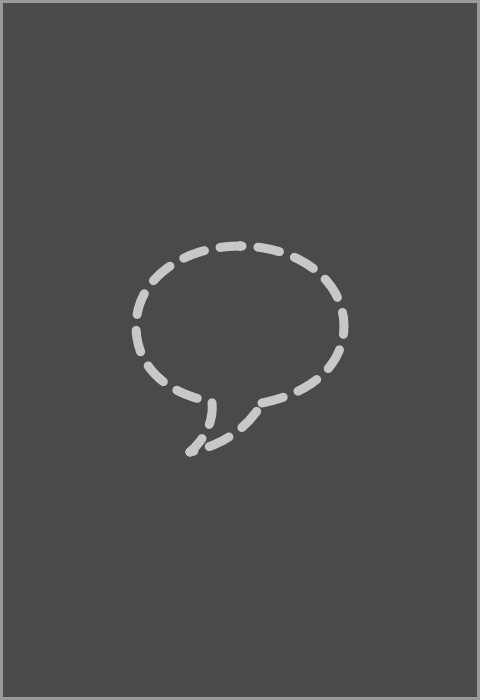
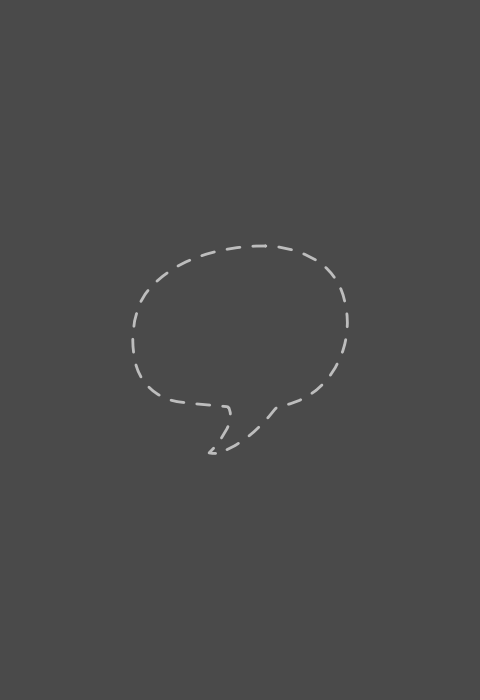
Polish missing-comic covers and the metadata editor

Changed region(s): [[0.0, 0.0, 1.0, 1.0], [0.25, 0.33, 0.75, 0.66]]

diff --git a/YACReaderLibrary/qml/FlowView.qml b/YACReaderLibrary/qml/FlowView.qml
@@ -155,7 +155,11 @@ Rectangle {
                 Image {
                     id: coverElement
                     anchors.fill: parent
-                    source: cover_path
+                    source: cover_path.toString() === "qrc:/images/unavailableCover.png"
+                            ? "qrc:/images/unavailableCover.svg" : cover_path
+                    // Render the SVG at the crop size; Image accounts for the display's pixel density.
+                    sourceSize: source.toString() === "qrc:/images/unavailableCover.svg"
+                                ? Qt.size(Math.ceil(Math.max(width, height * 480 / 700)), -1) : undefined
                     fillMode: Image.PreserveAspectCrop
                     smooth: true
                     mipmap: true
@@ -170,7 +174,7 @@ Rectangle {
 
                     onStatusChanged: {
                         if (status === Image.Error && model.available === false)
-                            source = "qrc:/images/unavailableCover.png"
+                            source = "qrc:/images/unavailableCover.svg"
                     }
                 }
 

diff --git a/YACReaderLibrary/qml/ComicGridDelegate.qml b/YACReaderLibrary/qml/ComicGridDelegate.qml
@@ -181,7 +181,11 @@ Rectangle {
         width: coverWidth
         height: coverHeight
         anchors { horizontalCenter: parent.horizontalCenter; top: realCell.top }
-        source: cell.cover_path
+        source: cell.cover_path.toString() === "qrc:/images/unavailableCover.png"
+                ? "qrc:/images/unavailableCover.svg" : cell.cover_path
+        // Render the SVG at the crop size; Image accounts for the display's pixel density.
+        sourceSize: source.toString() === "qrc:/images/unavailableCover.svg"
+                    ? Qt.size(Math.ceil(Math.max(width, height * 480 / 700)), -1) : undefined
         fillMode: Image.PreserveAspectCrop
         smooth: true
         mipmap: true
@@ -196,7 +200,7 @@ Rectangle {
 
         onStatusChanged: {
             if (status === Image.Error && cell.available === false)
-                source = "qrc:/images/unavailableCover.png"
+                source = "qrc:/images/unavailableCover.svg"
         }
     }
 

diff --git a/release/server/docroot/js/webui.js b/release/server/docroot/js/webui.js
@@ -1667,7 +1667,7 @@
       var cover = element("div", className + " missing-comic-cover");
       var fallback = element("img", "browser-cover-image");
       fallback.alt = "";
-      fallback.src = "/images/webui/unavailableCover.png";
+      fallback.src = "/images/webui/unavailableCover.svg";
       cover.appendChild(fallback);
       var url = coverUrl(item);
       if (url) {

diff --git a/YACReaderLibrary/properties_dialog.cpp b/YACReaderLibrary/properties_dialog.cpp
@@ -92,11 +92,6 @@ PropertiesDialog::PropertiesDialog(QWidget *parent)
 
     rootLayout->addWidget(coverBox, 0, 0, Qt::AlignBottom);
 
-    deletedComicNote = new QLabel;
-    deletedComicNote->setWordWrap(true);
-    deletedComicNote->hide();
-    rootLayout->addWidget(deletedComicNote, 1, 0);
-
     setModal(true);
 
     setSizePolicy(QSizePolicy::MinimumExpanding, QSizePolicy::MinimumExpanding);
@@ -535,16 +530,6 @@ void PropertiesDialog::loadComic(const ComicRecord &record)
         coverPageNumberLabel->setText("1");
     }
 
-    if (comic == nullptr) {
-        auto note = tr("The file of this comic is not in the library.");
-        if (const auto *deleted = std::get_if<ComicRecordCase::DeletedComic>(&record); deleted != nullptr && deleted->lastKnownFile)
-            note += "\n" + tr("Last known file: %1").arg(deleted->lastKnownFile->name);
-        deletedComicNote->setText(note);
-        deletedComicNote->show();
-    } else {
-        deletedComicNote->hide();
-    }
-
     numberEdit->setText(info.number.isNull() ? QString() : info.number.toString());
     countEdit->setText(info.count.isNull() ? QString() : info.count.toString());
     volumeEdit->setText(info.volume.isNull() ? QString() : info.volume.toString());
@@ -674,7 +659,6 @@ void PropertiesDialog::setComics(QList<ComicRecord> records)
 
     if (records.length() > 1) {
         updateCoverBoxForMultipleComics();
-        deletedComicNote->hide();
 
         // the reset needs the file, so it skips the deleted comics
         resetCoverButton->setEnabled(lastComicWithFile() != nullptr);
@@ -825,7 +809,6 @@ void PropertiesDialog::setTrackMode(bool track)
     issuesSummary->setVisible(track);
     coverBox->setHidden(track);
     comicVineLink->setHidden(track);
-    deletedComicNote->hide();
     previousButton->hide();
     nextButton->hide();
 

diff --git a/YACReaderLibrary/properties_dialog.h b/YACReaderLibrary/properties_dialog.h
@@ -135,8 +135,6 @@ private:
     QToolButton *resetCoverButton;
     QToolButton *loadCustomCoverImageButton;
 
-    QLabel *deletedComicNote;
-
     void createTabBar();
     void createCoverBox();
     void createGeneralInfoBox();
